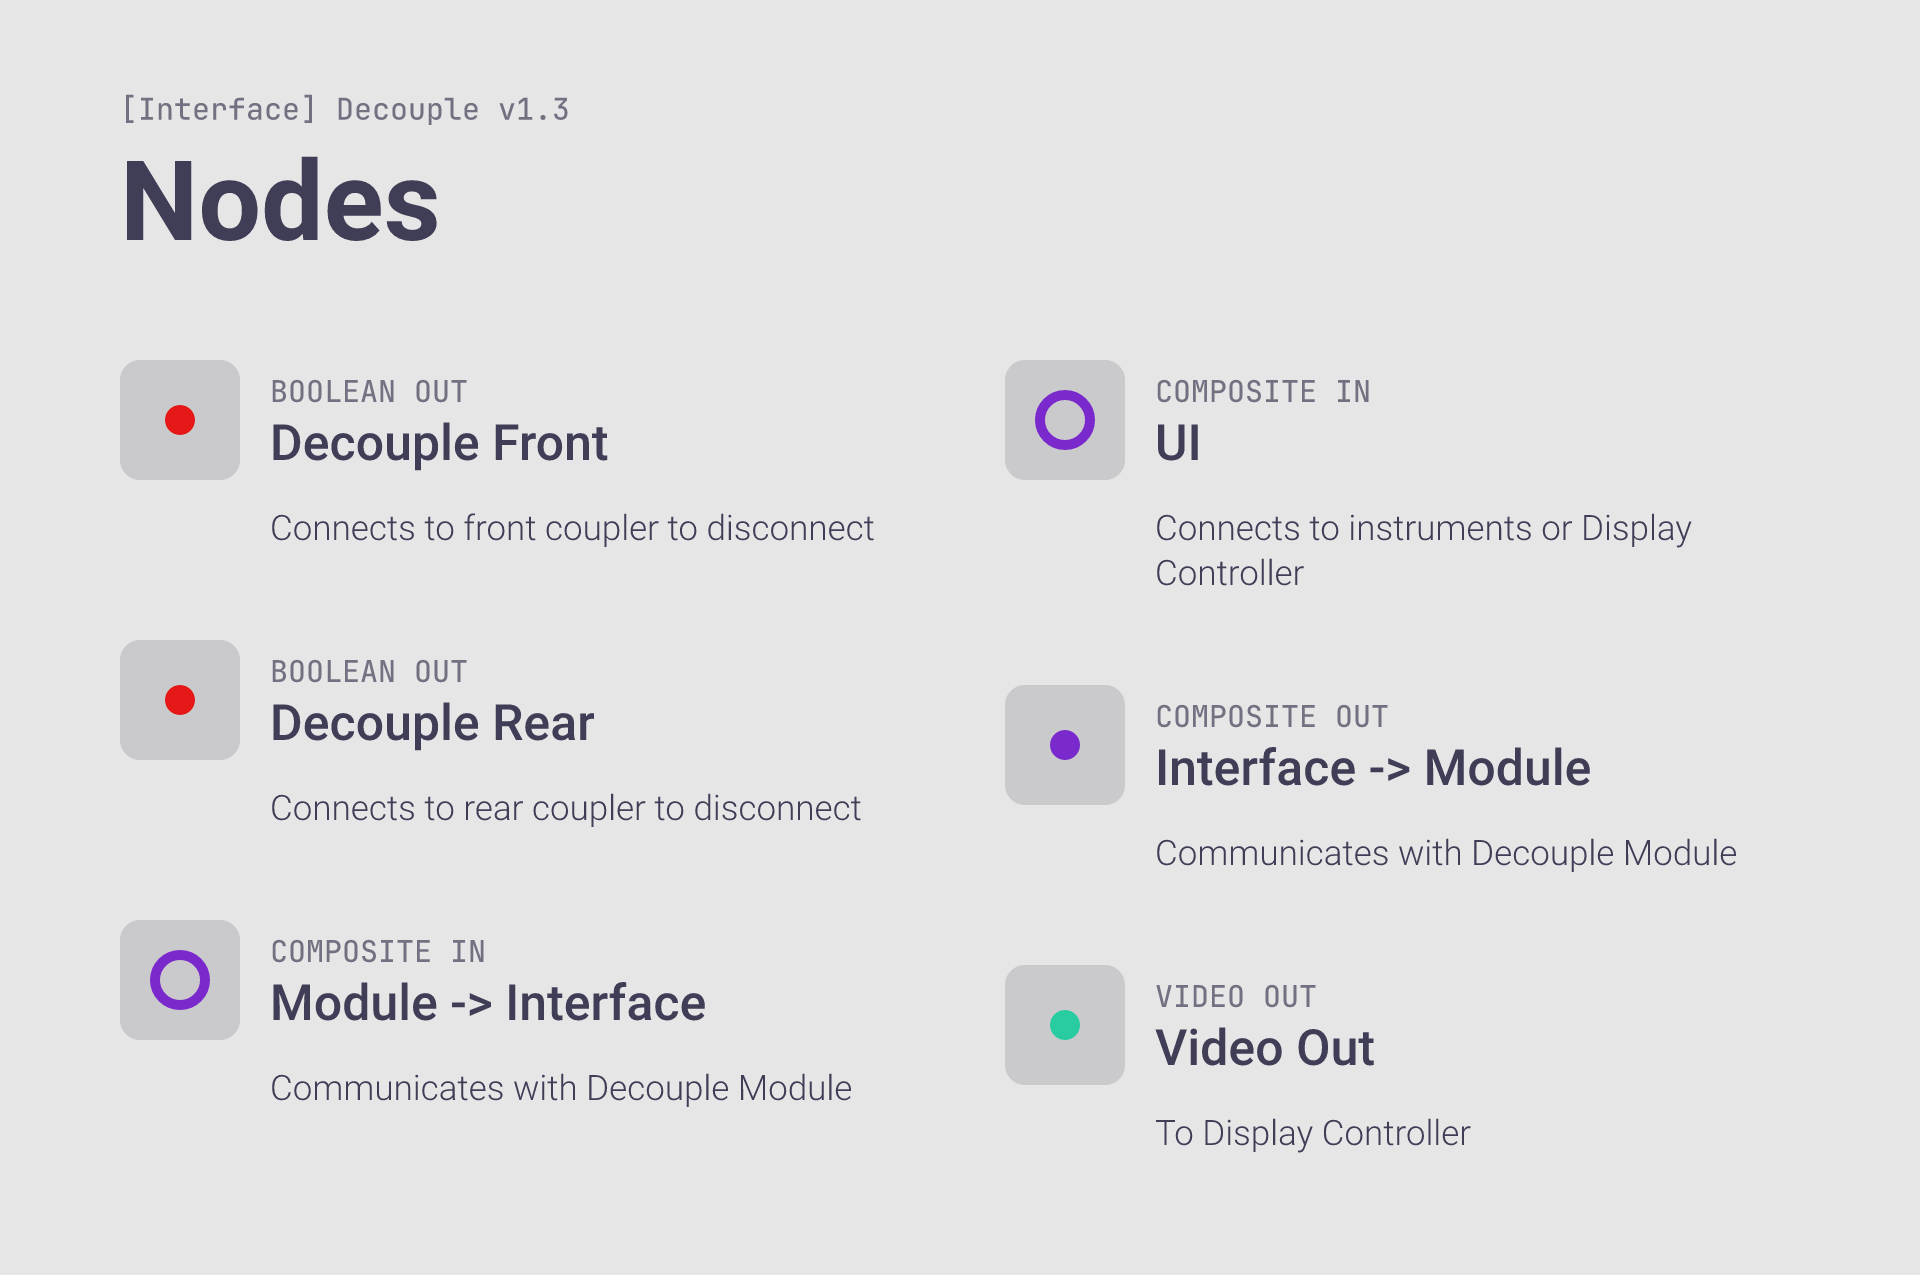
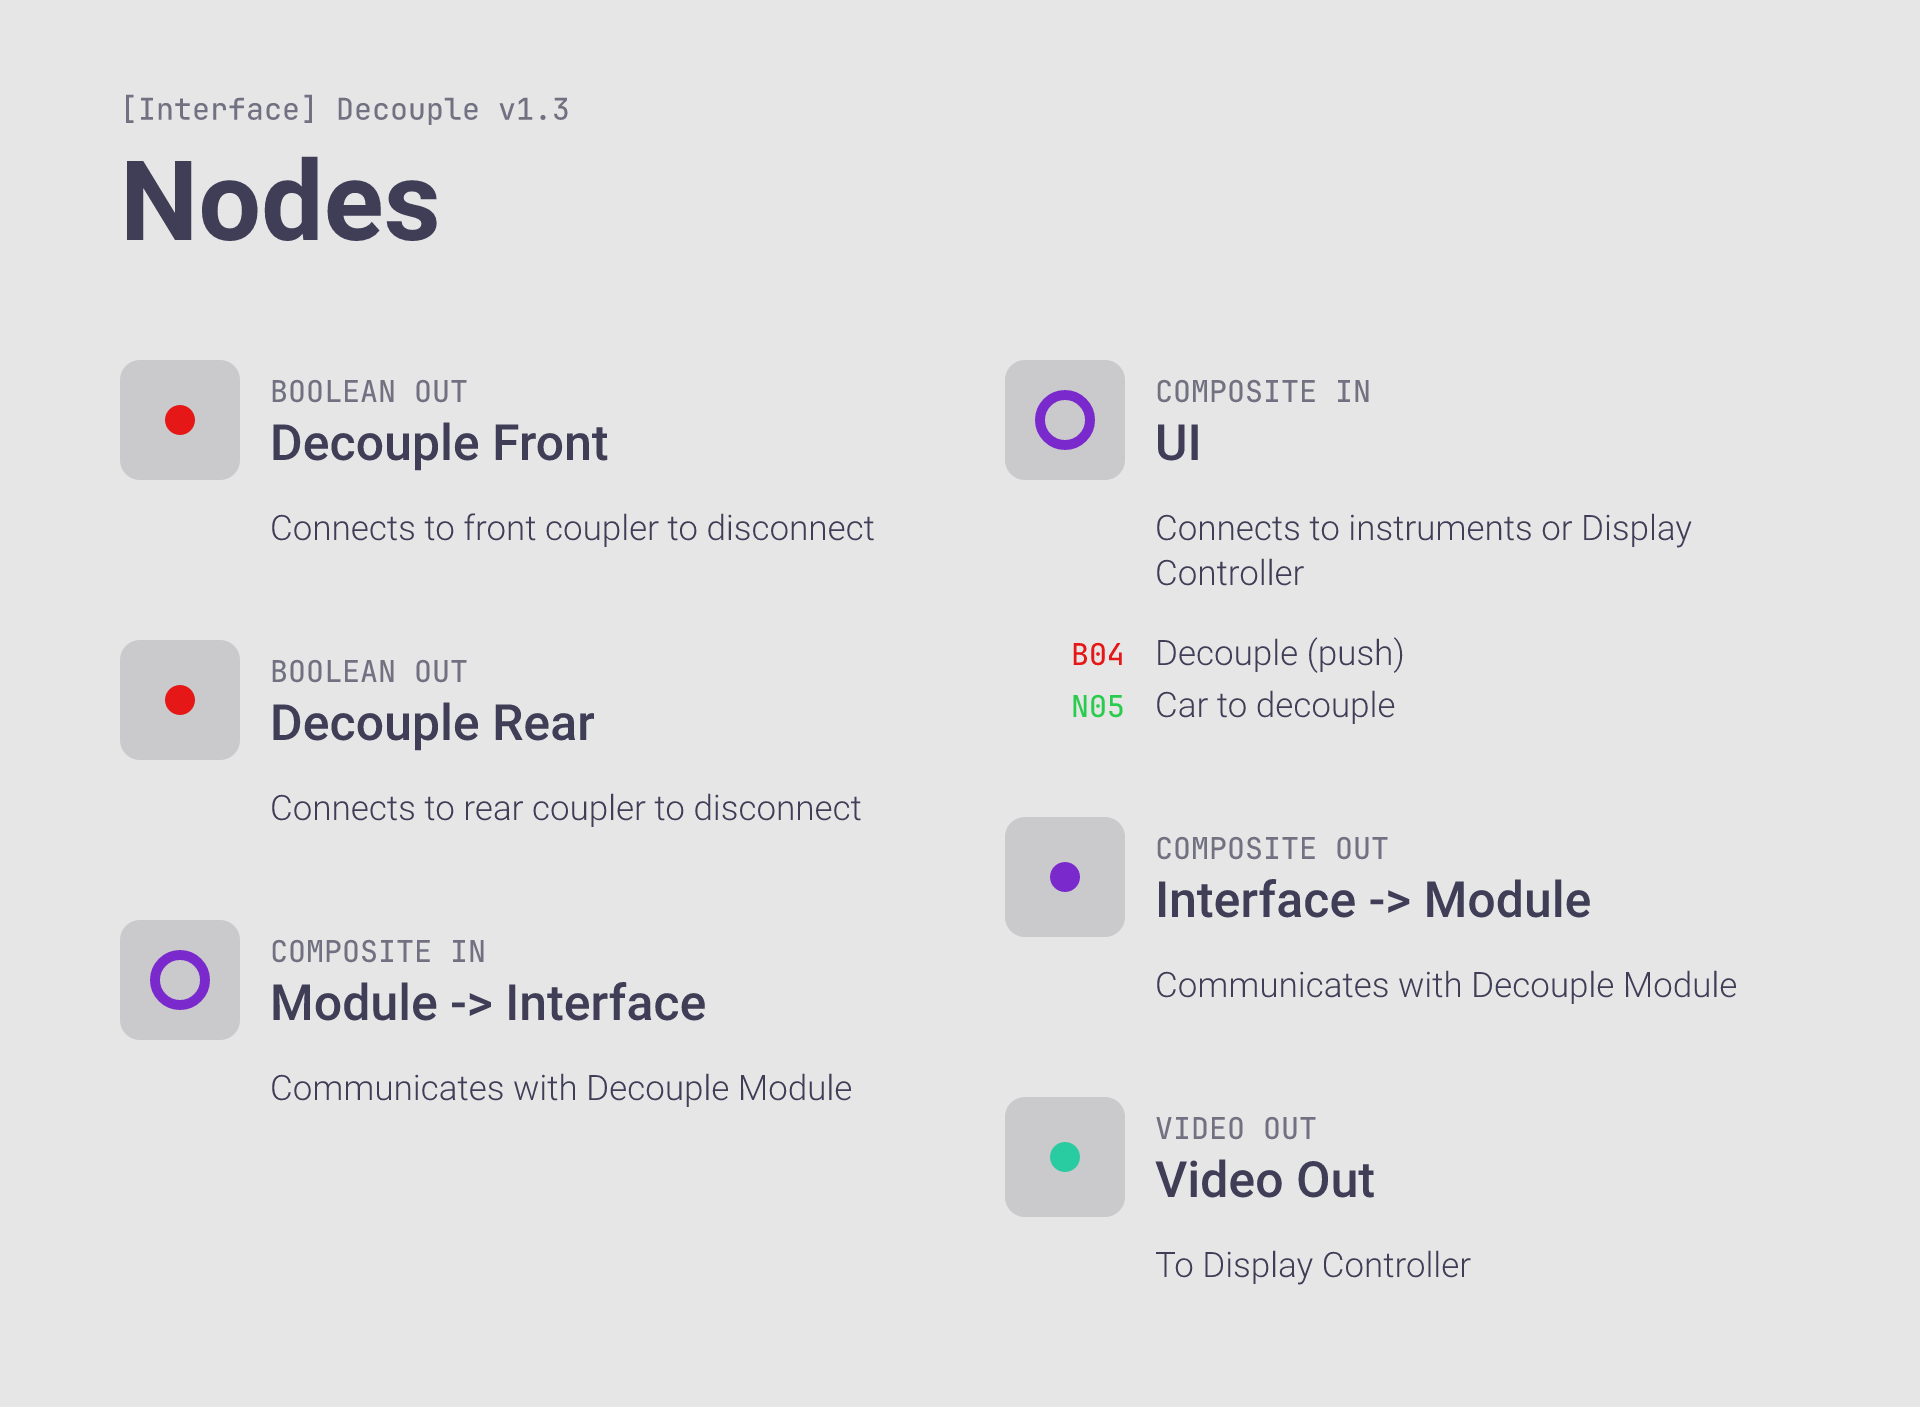
Added UI channel documentation Passenger Doors is subject to change and Decouple UI input is documented as what it will be in a future update

diff --git a/UpdateUtility/updateUtility.js b/UpdateUtility/updateUtility.js
@@ -101,7 +101,7 @@ async function execDatabase() {
 		path: cPath + dir + "/",
 		file: file,
 		group: dir.replace(" Group", ""),
-		identifier: interpretName(file).identifier
+		nameData: interpretName(file)
 	})))
 
 	controllers.forEach(c => {
@@ -119,7 +119,7 @@ async function execDatabase() {
 			let desc = (n["@_description"] || "")
 			let mode = (n["@_mode"] === "1")
 			let type = Number(n["@_type"]) || 0
-			let channels = [c.group, "Any"].map(d => (c => database.connections.composite[c] ? c : undefined)(d + "#" + label.replaceAll(" ", ""))).reduce((p, c) => p ?? c, undefined)
+			let channels = [c.group + "." + c.nameData.name.replaceAll(" ", ""), c.group, "Any"].map(d => (c => (database.connections.composite[c] ?? database.connections.redirects[c]) ? c : undefined)(d + "#" + label.replaceAll(" ", ""))).reduce((p, c) => p ?? c, undefined)
 			if (channels) n["@_description"] = placeholders(n["@_description"] + " // {$c" + (mode ? "i" : "o") + channels + "}")
 			nodes.push({
 				label: n["@_label"] || "",
@@ -145,7 +145,7 @@ async function execDatabase() {
 		buffer = swXMLBuilder.build(xml)
 		buffer = buffer.replaceAll(" \/\/ \"", "\"") // fix empty channel lists
 
-		if (c.identifier !== c.data.identifier) return console.log("\x1b[33m%s\x1b[0m", "identifier mismatch: \"" + c.identifier + "\" (filename) // \"" + c.data.identifier + "\" (name in xml file)")
+		if (c.nameData.identifier !== c.data.identifier) return console.log("\x1b[33m%s\x1b[0m", "identifier mismatch: \"" + c.identifier + "\" (filename) // \"" + c.data.identifier + "\" (name in xml file)")
 		database.controllers[c.data.identifier] = mergeJSON(database.controllers[c.data.identifier] ?? {}, c.data)
 
 		fs.writeFileSync(c.path + c.file, buffer.replace(/\r\n/g, "\n"))
@@ -369,7 +369,7 @@ resolvePlaceholder = placeholder => {
 
 resolveChannels = identifier => {
 
-	let entry = database.connections.composite[identifier]
+	let entry = database.connections.composite[identifier] ?? database.connections.redirects[identifier]
 	let resolved = {
 		boolean: {},
 		number: {}
